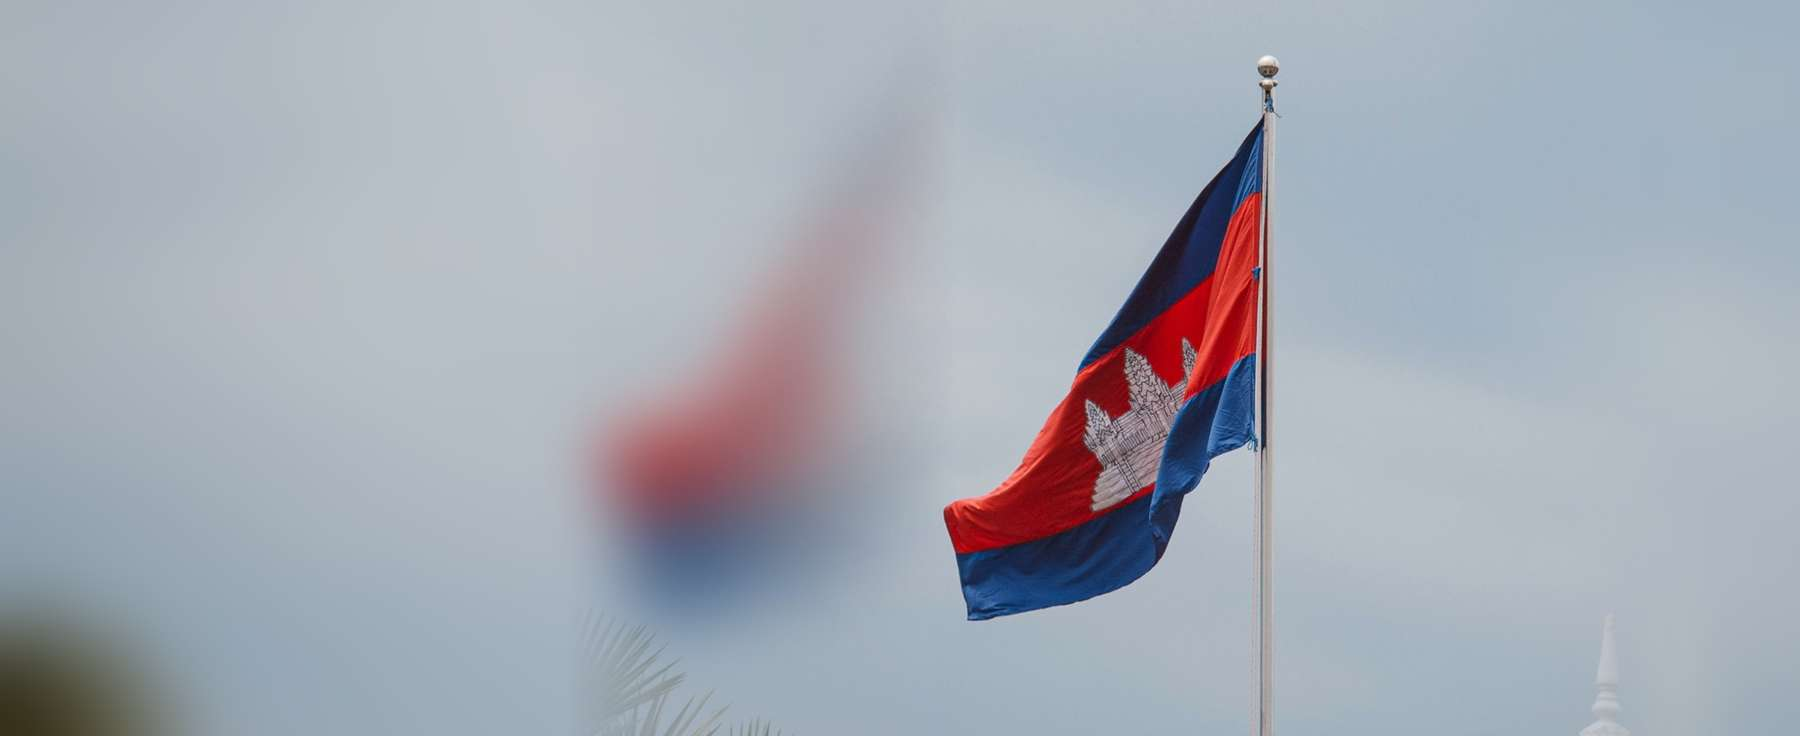
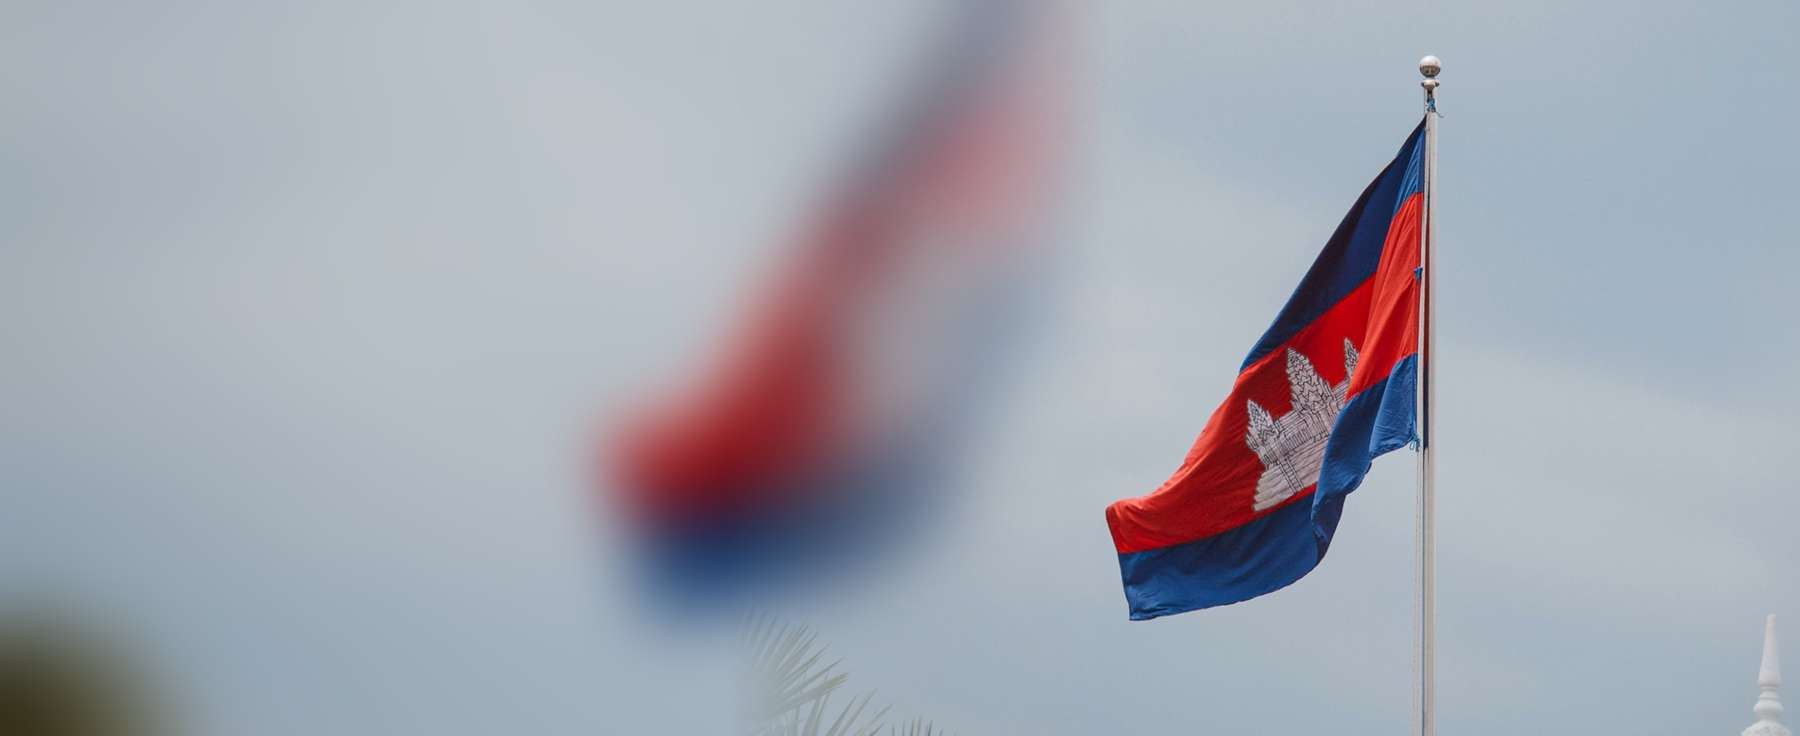
Photo-tinted backgrounds site-wide incl. home; solid header; About/Team/Fees/Careers fixes
Claude-Session: https://claude.ai/code/session_01Xbf3RGxxj1HctPg1p79FkA

diff --git a/styles.css b/styles.css
@@ -126,7 +126,7 @@ body.tinted{background:transparent}
 html{background:#f1f5f8}
 body.tinted:before{content:"";position:fixed;inset:-60px;z-index:-2;background:var(--photo) center/cover;filter:blur(46px) saturate(1.35)}
 body.tinted:after{content:"";position:fixed;inset:0;z-index:-1;background:linear-gradient(180deg,rgba(246,249,251,.84),rgba(246,249,251,.9))}
-body.tinted main section:not(.page-hero):not(.technology-services):not(.values):not(.contact){background:transparent!important}
+
 .tinted .capability-card,.tinted .approach-steps article,.tinted .fee-panel,.tinted .team-profile,.tinted .career-details,.tinted .career-track{background:rgba(255,255,255,.55);backdrop-filter:blur(6px)}
 .tinted .technology-services,.tinted .values{background:linear-gradient(rgba(10,30,48,.8),rgba(10,30,48,.9)),var(--photo) center/cover}
 .tinted footer{background:linear-gradient(rgba(8,24,38,.9),rgba(8,24,38,.94)),var(--photo) center/cover}
@@ -135,3 +135,29 @@ body.tinted:after{background:linear-gradient(180deg,rgba(244,248,251,.74),rgba(2
 body.tinted:before{filter:blur(36px) saturate(1.5)}
 .tinted .technology-services .capability-card,.tinted .values .value-grid article{background:rgba(255,255,255,.07)!important;border-color:rgba(255,255,255,.22)!important;color:#fff}
 .tinted .technology-services .capability-card p,.tinted .values p{color:#d3dde4}
+
+/* ---- Round 3 fixes ---- */
+.site-header,.site-header.scrolled{background:#0d2a40;backdrop-filter:none;-webkit-backdrop-filter:none;border-bottom:1px solid rgba(255,255,255,.12)}
+.tinted .hero{background:#16394b}
+.tinted .technology{background:linear-gradient(rgba(10,30,48,.78),rgba(10,30,48,.88)),var(--photo) center/cover!important}
+.tinted .tech-center{background:rgba(10,30,48,.6)}
+.tinted .capability-card,.tinted .approach-steps article{background:rgba(255,255,255,.55)}
+.tinted .fee-panel,.tinted .team-profile,.tinted .career-details,.tinted .career-track,.plain .team-profile{background:transparent!important;backdrop-filter:none!important;border-color:var(--line)!important}
+.tinted .application-note{background:rgba(255,255,255,.5)}
+.tinted .values,.tinted .technology-services{color:#fff}
+.tinted .values h2,.tinted .values h3,.tinted .values .section-heading h2,.tinted .technology-services h2,.tinted .technology-services h3{color:#fff}
+.tinted .values p,.tinted .values .value-grid p,.tinted .technology-services .service-heading-copy p{color:#d6e0e6}
+.tinted .values .section-heading h2:hover,.tinted .value-grid article:hover h3{color:#bfe9ef}
+.tinted .origin{background:linear-gradient(135deg,#a8c6b2 0%,#bcd5c6 55%,#d3e3d9 100%)!important;color:#10303c}
+.tinted .origin .section-heading h2,.tinted .origin-lead{color:#10303c}
+.tinted .origin-copy,.tinted .origin-copy p{color:#26474f}
+.tinted .origin .section-kicker{color:#3d6454}
+.tinted .origin-grid{border-top-color:rgba(16,48,60,.25)}
+body.plain{background:#fff}
+body.plain main section:not(.page-hero){background:#fff!important}
+.plain footer{background:linear-gradient(rgba(8,24,38,.9),rgba(8,24,38,.94)),var(--photo) center/cover}
+
+.tinted .team-principle,.plain .team-principle{background:linear-gradient(rgba(10,30,48,.8),rgba(10,30,48,.9)),var(--photo) center/cover!important;color:#fff}
+.tinted .team-principle blockquote,.plain .team-principle blockquote,.tinted .team-principle p,.plain .team-principle p{color:#fff}
+body.plain main section:not(.page-hero):not(.team-principle){background:#fff!important}
+body.tinted main section:not(.page-hero):not(.technology-services):not(.values):not(.contact):not(.technology):not(.hero):not(.origin):not(.team-principle){background:transparent!important}

diff --git a/team.html b/team.html
@@ -12,7 +12,7 @@
   <link rel="preconnect" href="https://fonts.googleapis.com">
   <link rel="preconnect" href="https://fonts.gstatic.com" crossorigin>
   <link href="https://fonts.googleapis.com/css2?family=DM+Sans:wght@400;500;600&family=Libre+Caslon+Display&display=swap" rel="stylesheet">
-  <link rel="stylesheet" href="styles.css?v=20261016">
+  <link rel="stylesheet" href="styles.css?v=20261019">
   <style>
     .team-person{min-width:0}
     .team-person .profile-links{display:flex!important;flex-direction:column!important;align-items:flex-start!important;gap:12px!important;width:100%!important;margin:20px 0 0!important}
@@ -22,7 +22,7 @@
     .team-role{font-size:15px!important}
   </style>
 </head>
-<body class="tinted" style="--photo:url(assets/bg-team-aerial.jpg)">
+<body class="plain" style="--photo:url(assets/bg-team-aerial.jpg)">
   <header class="site-header" id="top">
     <a class="brand" href="index.html" aria-label="Lionhold Capital home">
       <img class="brand-lockup" src="assets/lionhold-lockup-light.png?v=2" alt="" width="1000" height="238">

diff --git a/index.html b/index.html
@@ -12,9 +12,9 @@
   <link rel="preconnect" href="https://fonts.googleapis.com">
   <link rel="preconnect" href="https://fonts.gstatic.com" crossorigin>
   <link href="https://fonts.googleapis.com/css2?family=DM+Sans:wght@400;500;600&family=Libre+Caslon+Display&display=swap" rel="stylesheet">
-  <link rel="stylesheet" href="styles.css?v=20261016">
+  <link rel="stylesheet" href="styles.css?v=20261019">
 </head>
-<body>
+<body class="tinted" style="--photo:url(assets/hero-poster.jpg)">
   <header class="site-header" id="top">
     <a class="brand" href="#top" aria-label="Lionhold Capital home">
       <img class="brand-lockup" src="assets/lionhold-lockup-light.png?v=2" alt="" width="1000" height="238">

diff --git a/careers.html b/careers.html
@@ -12,7 +12,7 @@
   <link rel="preconnect" href="https://fonts.googleapis.com">
   <link rel="preconnect" href="https://fonts.gstatic.com" crossorigin>
   <link href="https://fonts.googleapis.com/css2?family=DM+Sans:wght@400;500;600&family=Libre+Caslon+Display&display=swap" rel="stylesheet">
-  <link rel="stylesheet" href="styles.css?v=20261016">
+  <link rel="stylesheet" href="styles.css?v=20261019">
 </head>
 <body class="tinted" style="--photo:url(assets/bg-services-towers.jpg)">
   <header class="site-header" id="top">

diff --git a/fees.html b/fees.html
@@ -12,7 +12,7 @@
   <link rel="preconnect" href="https://fonts.googleapis.com">
   <link rel="preconnect" href="https://fonts.gstatic.com" crossorigin>
   <link href="https://fonts.googleapis.com/css2?family=DM+Sans:wght@400;500;600&family=Libre+Caslon+Display&display=swap" rel="stylesheet">
-  <link rel="stylesheet" href="styles.css?v=20261016">
+  <link rel="stylesheet" href="styles.css?v=20261019">
 </head>
 <body class="tinted" style="--photo:url(assets/bg-fees-pavilion.jpg)">
   <header class="site-header" id="top">

diff --git a/services.html b/services.html
@@ -12,7 +12,7 @@
   <link rel="preconnect" href="https://fonts.googleapis.com">
   <link rel="preconnect" href="https://fonts.gstatic.com" crossorigin>
   <link href="https://fonts.googleapis.com/css2?family=DM+Sans:wght@400;500;600&family=Libre+Caslon+Display&display=swap" rel="stylesheet">
-  <link rel="stylesheet" href="styles.css?v=20261016">
+  <link rel="stylesheet" href="styles.css?v=20261019">
 </head>
 <body class="tinted" style="--photo:url(assets/bg-careers-dusk.jpg)">
   <header class="site-header" id="top">

diff --git a/about.html b/about.html
@@ -12,7 +12,7 @@
   <link rel="preconnect" href="https://fonts.googleapis.com">
   <link rel="preconnect" href="https://fonts.gstatic.com" crossorigin>
   <link href="https://fonts.googleapis.com/css2?family=DM+Sans:wght@400;500;600&family=Libre+Caslon+Display&display=swap" rel="stylesheet">
-  <link rel="stylesheet" href="styles.css?v=20261016">
+  <link rel="stylesheet" href="styles.css?v=20261019">
 </head>
 <body class="tinted" style="--photo:url(assets/bg-about-flag.jpg)">
   <header class="site-header" id="top">
